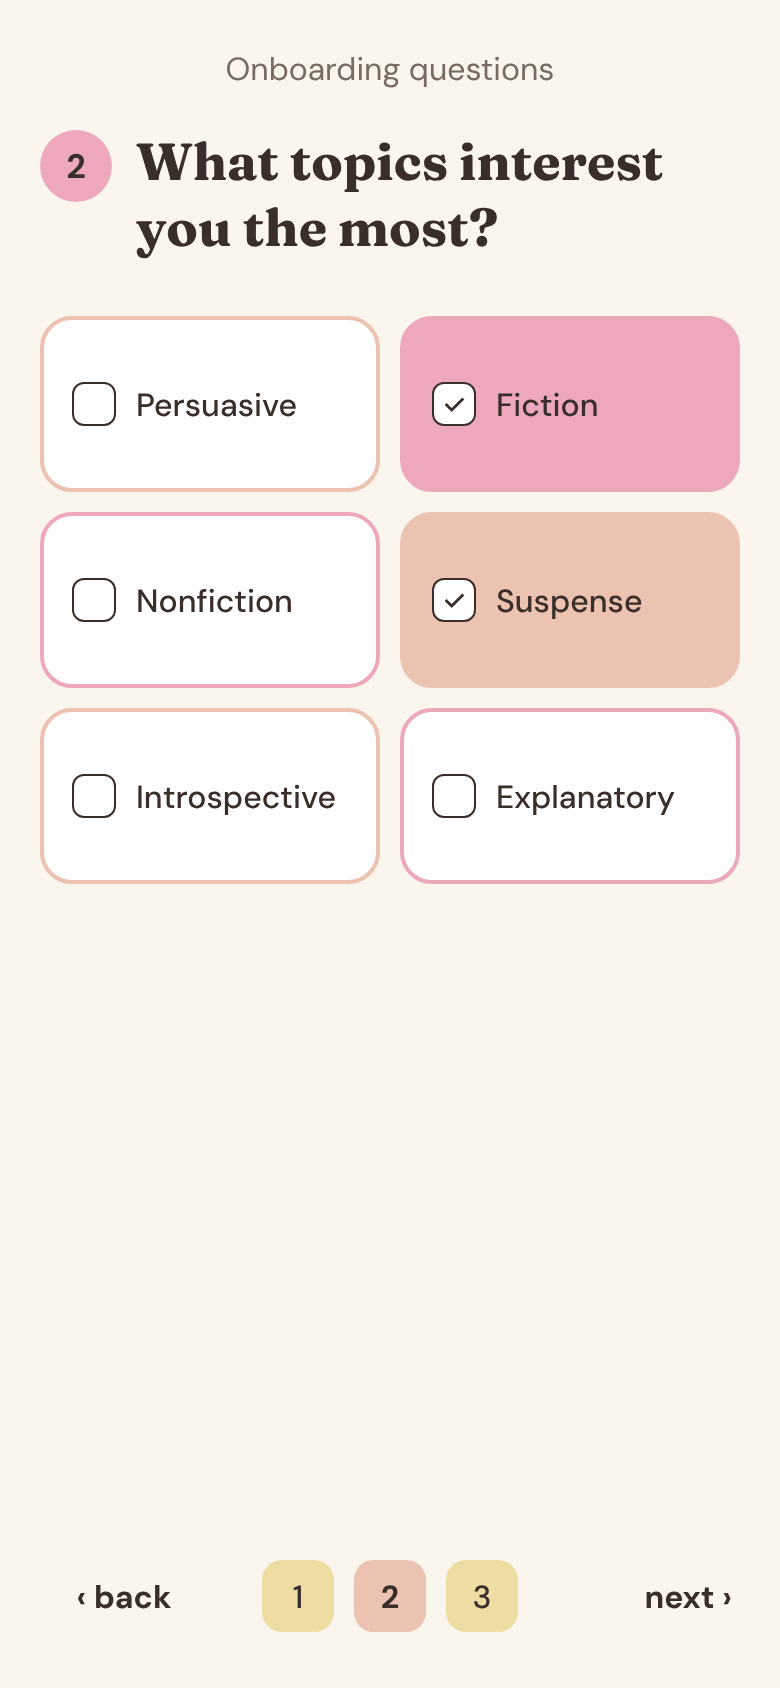
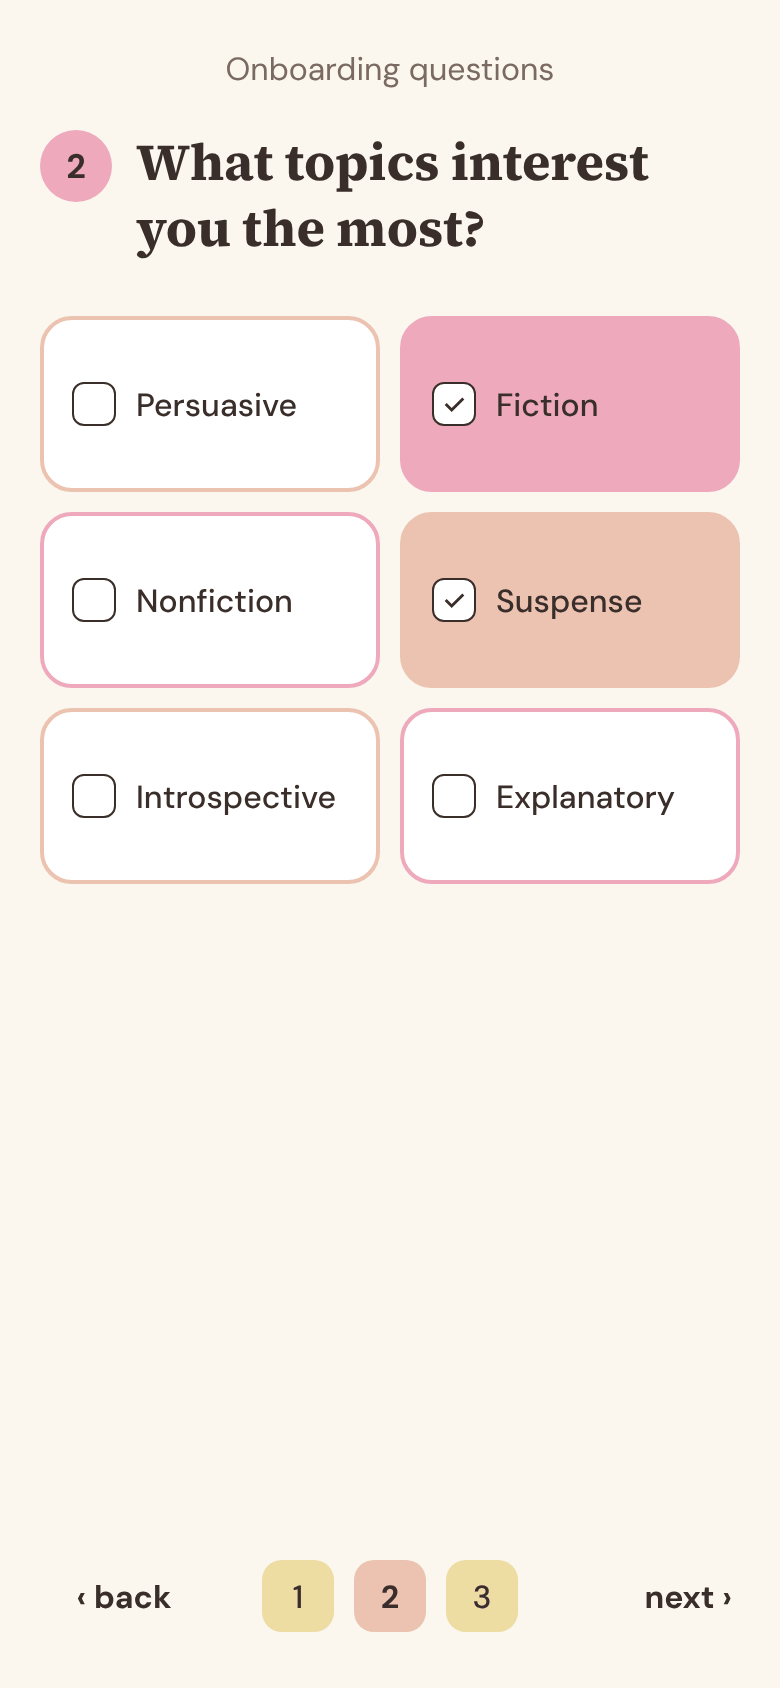
Switch the title font to Source Serif 4 so the f doesn't run into the next letter

Changed region(s): [[0.1846, 0.0616, 0.8615, 0.154]]

diff --git a/index.html b/index.html
@@ -4,12 +4,12 @@
 <meta charset="utf-8">
 <meta name="viewport" content="width=device-width, initial-scale=1">
 <title>Writing Prompt App Screens</title>
-<link rel="stylesheet" href="https://fonts.googleapis.com/css2?family=Fraunces:opsz,wght@9..144,700&amp;family=DM+Sans:wght@400;500;700&amp;display=swap">
+<link rel="stylesheet" href="https://fonts.googleapis.com/css2?family=Source+Serif+4:opsz,wght@8..60,700&amp;family=DM+Sans:wght@400;500;700&amp;display=swap">
 <style>
   body { margin: 0; background: #F3EBDD; color: #3A2E2A; font-family: 'DM Sans', sans-serif; }
   * { font-variant-ligatures: no-common-ligatures; }
   header { padding: 40px 24px 8px; max-width: 1200px; margin: 0 auto; }
-  h1 { font-family: Fraunces, serif; font-size: 36px; margin: 0 0 8px; }
+  h1 { font-family: "Source Serif 4", serif; font-size: 36px; margin: 0 0 8px; }
   p { margin: 0; color: #6B5A52; }
   a { color: #3A2E2A; }
   h2 { font-size: 15px; letter-spacing: .08em; text-transform: uppercase; color: #6B5A52; margin: 36px 0 16px; }

diff --git a/app/index.html b/app/index.html
@@ -12,7 +12,7 @@
 <meta name="apple-mobile-web-app-status-bar-style" content="default">
 <meta name="apple-mobile-web-app-title" content="Write">
 <link rel="preconnect" href="https://fonts.googleapis.com">
-<link rel="stylesheet" href="https://fonts.googleapis.com/css2?family=Fraunces:opsz,wght@9..144,700&family=DM+Sans:wght@400;500;700&display=swap">
+<link rel="stylesheet" href="https://fonts.googleapis.com/css2?family=Source+Serif+4:opsz,wght@8..60,700&family=DM+Sans:wght@400;500;700&display=swap">
 <link rel="stylesheet" href="styles.css">
 </head>
 <body>

diff --git a/app/sw.js b/app/sw.js
@@ -1,6 +1,6 @@
 // Lets the app open even without internet, after the first visit.
 // When you change any app file, bump the version number so phones get the update.
-const CACHE = 'wpa-v28';
+const CACHE = 'wpa-v29';
 const FILES = ['./', 'index.html', 'styles.css', 'data.js', 'app.js', 'cloud.js', 'manifest.webmanifest',
   'icons/icon-192.png', 'icons/icon-512.png', 'icons/apple-touch-icon.png'];
 

diff --git a/app/styles.css b/app/styles.css
@@ -11,7 +11,7 @@
   --white: #ffffff;
   --radius: 16px;
   --font-body: 'DM Sans', system-ui, sans-serif;
-  --font-title: 'Fraunces', Georgia, serif;
+  --font-title: 'Source Serif 4', Georgia, serif;   /* titles (Fraunces was swapped out because its f ran into the next letter) */
 }
 
 * { box-sizing: border-box; font-variant-ligatures: no-common-ligatures; }

diff --git a/README.md b/README.md
@@ -54,7 +54,7 @@ Not designed yet, so they don't do anything: Explore prompts, Memories, tapping 
 | Text (warm brown) | `#3A2E2A` |
 | Light text | `#7A6A62` |
 
-Headings use **Fraunces** and everything else uses **DM Sans** (both free on Google Fonts).
+Headings use **Source Serif 4** and everything else uses **DM Sans** (both free on Google Fonts).
 
 ## Screens
 
